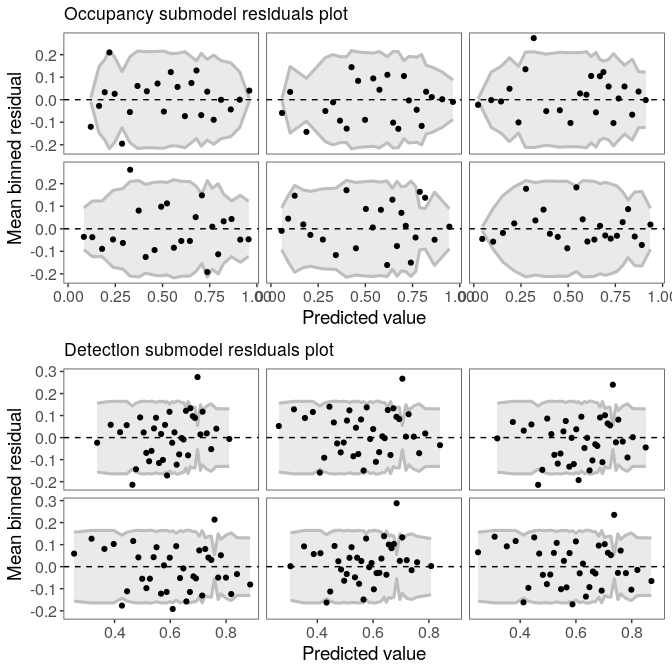
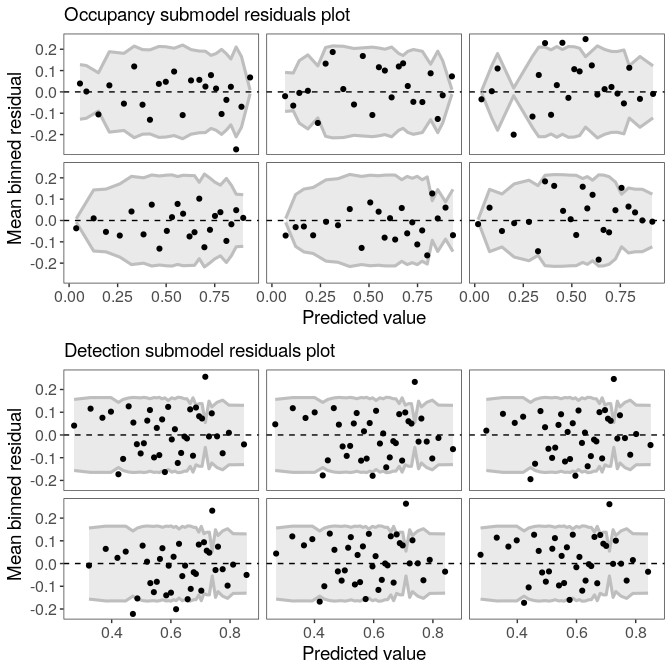
More changes to default priors and warn when covariates are not standardized

diff --git a/README.md b/README.md
@@ -118,17 +118,17 @@ Fit a model with a random intercept, using 3 parallel cores:
     ##     cores = 3, refresh = 0)
     ## 
     ## Occupancy (logit-scale):
-    ##                 Estimate    SD   2.5%  97.5% n_eff  Rhat
-    ## (Intercept)        0.335 0.306 -0.272  0.935   574 1.004
-    ## x1                -0.466 0.116 -0.692 -0.239  4147 0.999
-    ## sigma [1|group]    1.394 0.283  0.948  2.032  1822 1.001
+    ##                 Estimate    SD   2.5%  97.5% n_eff Rhat
+    ## (Intercept)        0.317 0.294 -0.259  0.900   668    1
+    ## x1                -0.461 0.119 -0.693 -0.229  4502    1
+    ## sigma [1|group]    1.388 0.277  0.929  2.018  1982    1
     ## 
     ## Detection (logit-scale):
-    ##             Estimate     SD  2.5% 97.5% n_eff Rhat
-    ## (Intercept)    0.382 0.0603 0.265 0.501  4575    1
-    ## x2             0.589 0.0623 0.465 0.712  4637    1
+    ##             Estimate     SD  2.5% 97.5% n_eff  Rhat
+    ## (Intercept)    0.382 0.0592 0.268 0.496  5380 1.000
+    ## x2             0.586 0.0615 0.469 0.710  4311 0.999
     ## 
-    ## LOOIC: 2267.638
+    ## LOOIC: 2267.997
 
 Examine residuals for occupancy and detection submodels (following
 [Wright et al. 2019](https://doi.org/10.1002/ecy.2703)). Each panel
